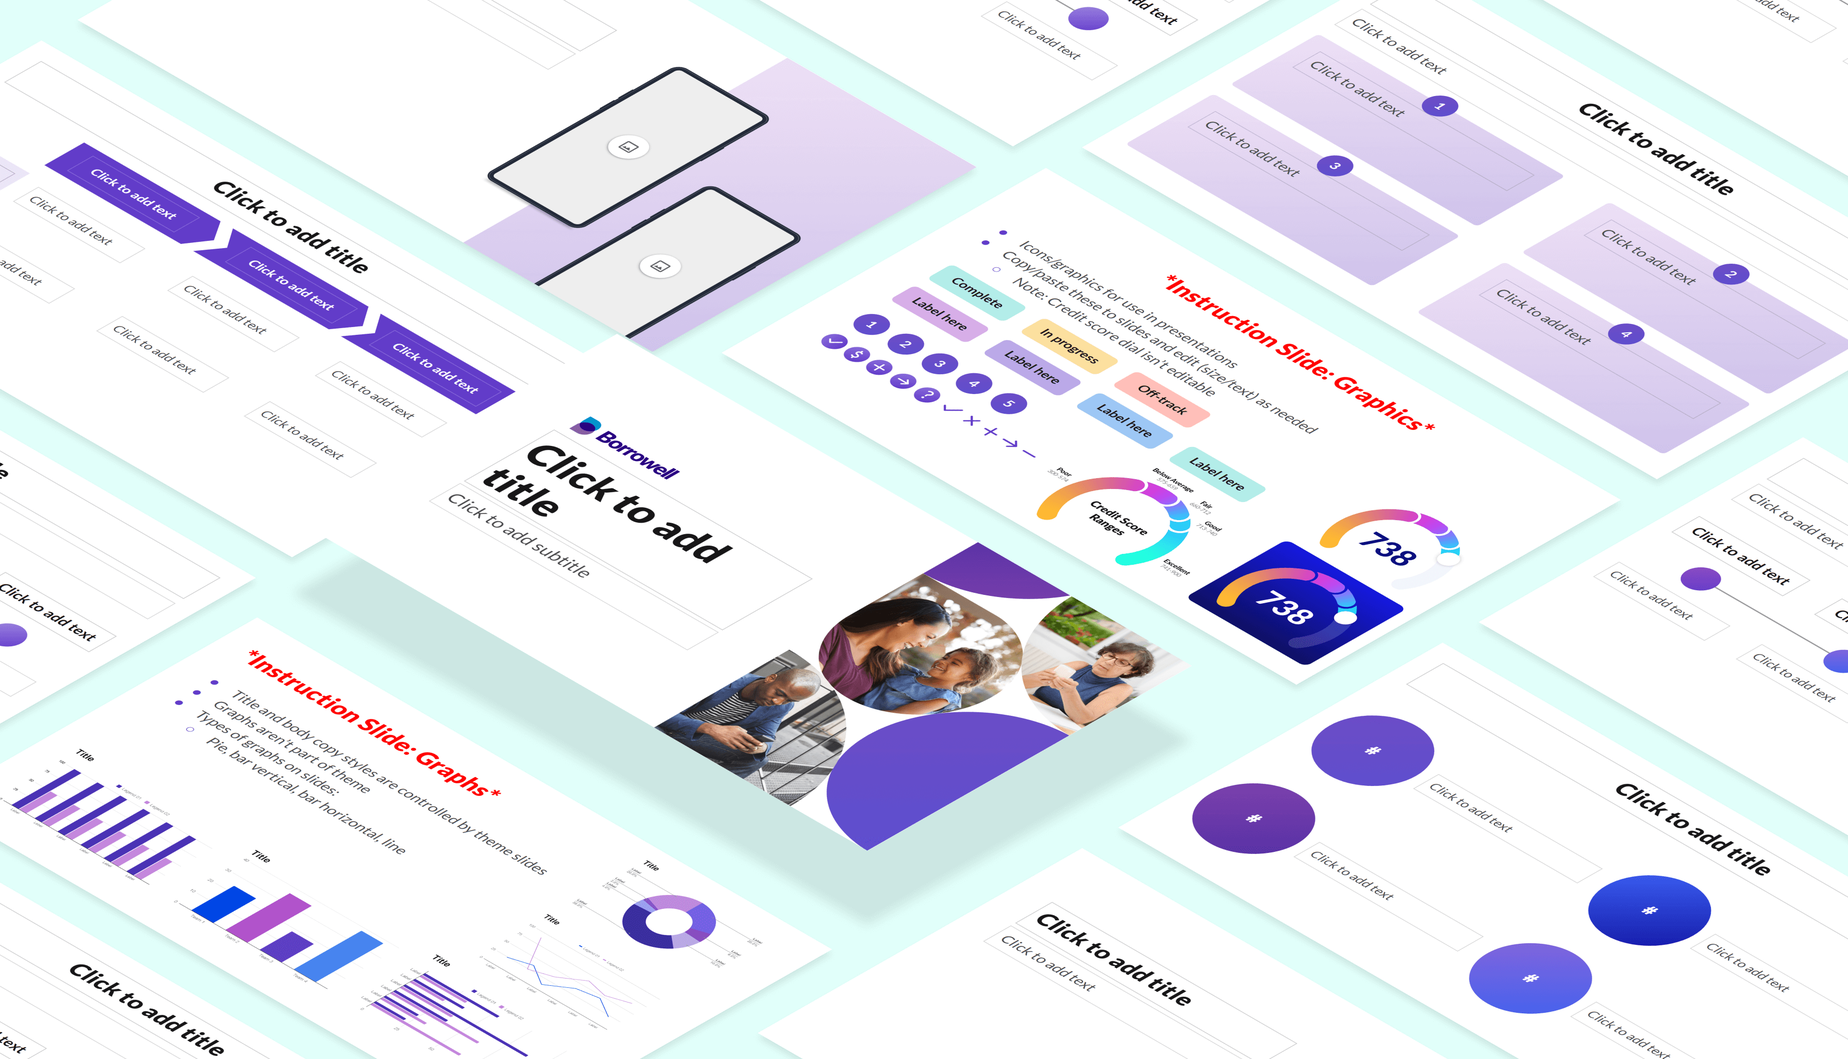
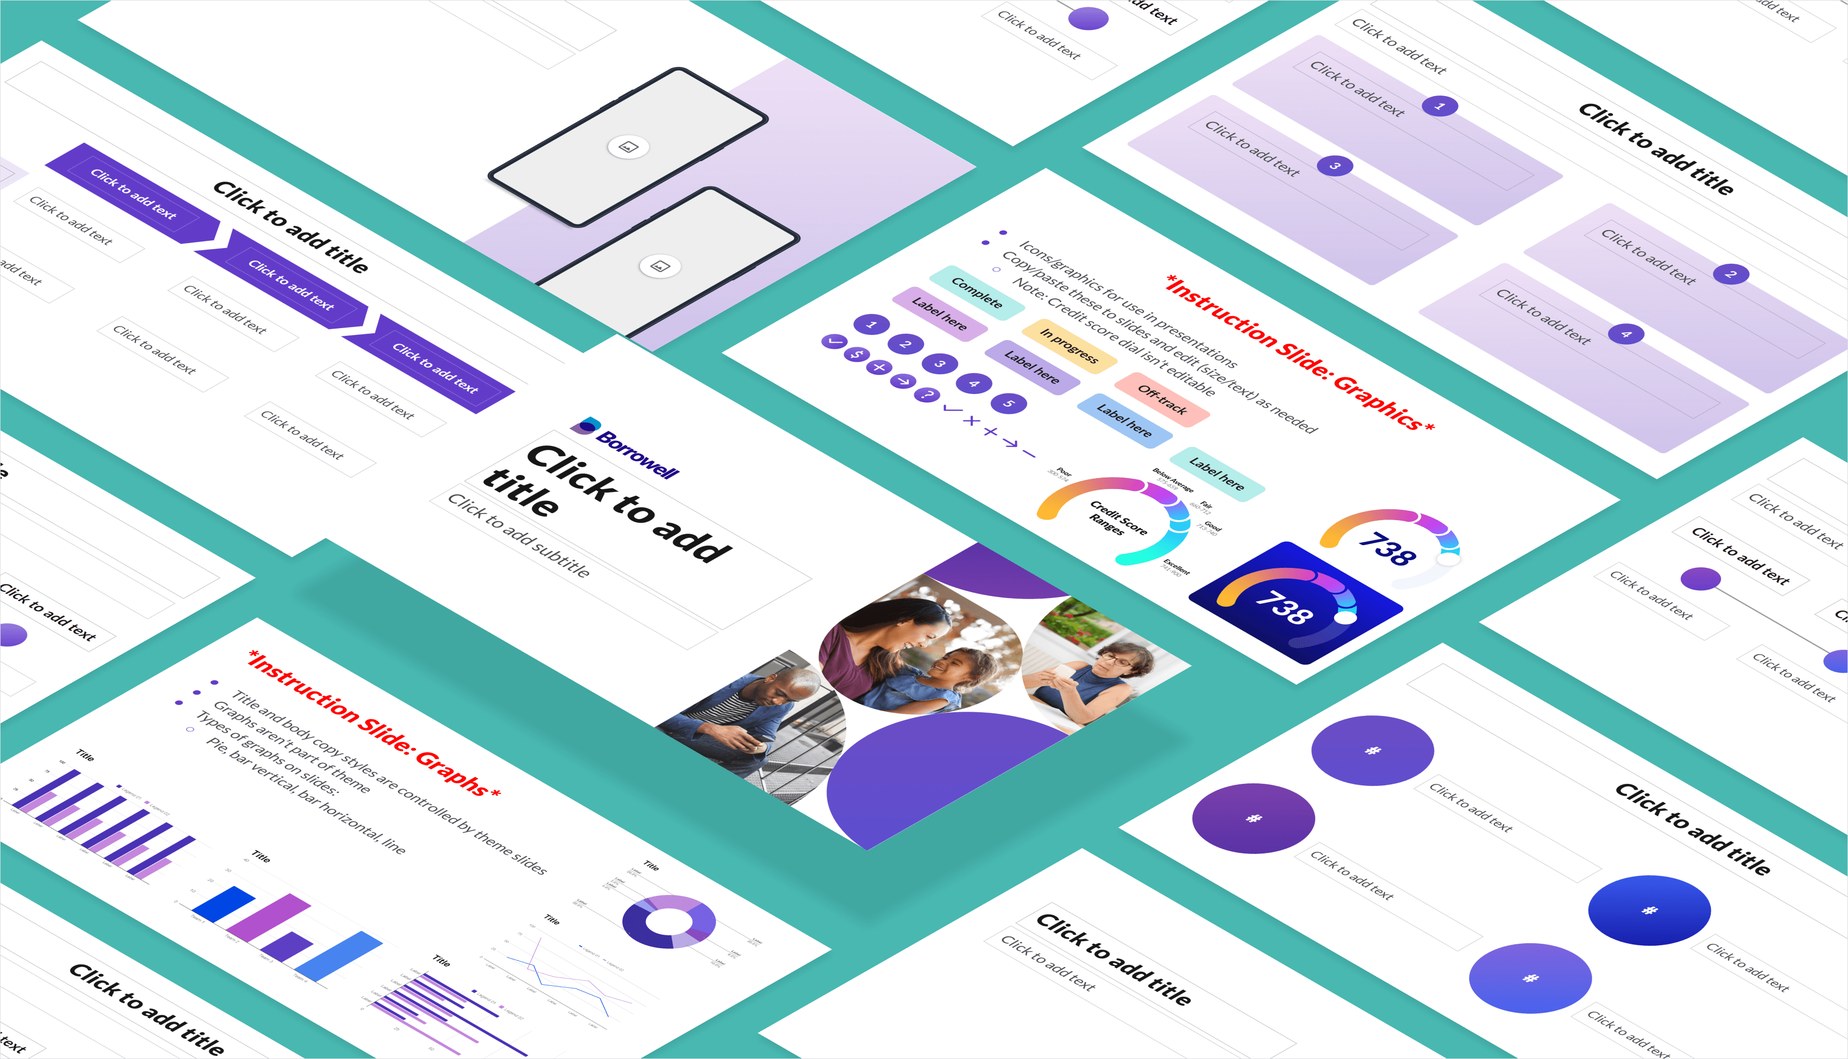
Updates based on Oz's feedback

Changed region(s): [[0.0, 0.0, 1.0, 1.0], [0.7795, 0.0, 1.0, 0.3088], [0.0, 0.8029, 0.2183, 1.0]]

diff --git a/portfolio-pages/borrowell-branding.html b/portfolio-pages/borrowell-branding.html
@@ -256,12 +256,6 @@
                         </div>
                     </div>
 
-
-                        <!-- <p>With the introduction of two new products in 2022, there was an opportunity to evaluate how colour could relate to each one. These financial products aren’t tangible items so we decided to use colour to help the separation. I chose a main colour for each and then worked in secondary colours that contrast well against these.</p> -->
-                        
-                        <!-- <img class="img-fluid" src="../img/borrowell-branding/characters-2019@2x.png" alt="Character ilustrations, including larger limbs and purple skin tones."> -->
-                        <!-- <p class="image-caption">Image representing product line colours with labels.</p> -->
-
                         <div class="section">
                             <p>I switched ad templates from Canva to Figma in 2023, as auto layouts in Figma allowed for responsive templates that adjust to frame size changes. I also created reusable components for easy swapping of images, enabling quick and easy testing of multiple ad variations.</p>
 
@@ -279,9 +273,6 @@
                                 <p>Make the shift from saturated background to lighter ones across all channels for a cohesive brand experience.
                                 </p>
                             </li>
-                            <!-- <li>
-                                <p>Implement a sans serif typeface that’s easier to read on all platforms.</p>
-                            </li> -->
                             <li>
                                 <p>Evolve the overall messaging of Borrowell from focusing solely on “free credit score” to “building credit and achieving financial goals” so it’s more encompassing of the new credit building products that were launched in 2022.
                                 </p>
@@ -341,9 +332,9 @@
                     <li><a href="../contact.html">Contact</a></li>
                 </ul>
                 <ul class="social-media">
-                    <li><a href="https://www.linkedin.com/in/amandawondergem" target="_blank" title="LinkedIn"><img src="../img/linkedin-black@2x.png" alt="linkedin" width="28" height="28"></a></li>
-                    <li><a  href="https://www.instagram.com/amanda_wondergem/" target="_blank" title="Instagram"><img src="../img/instagram-black@2x.png" alt="instagram" width="28" height="28"></a></li>
-                    <li><a href="https://vimeo.com/amandawondergem" target="_blank" title="Vimeo"><img src="../img/vimeo-black@2x.png" alt="vimeo" width="28" height="28"></a></li>
+                    <li><a href="https://www.linkedin.com/in/amandawondergem" target="_blank" title="LinkedIn"><img src="../img/linkedin-white@2x.png" alt="linkedin" width="28" height="28"></a></li>
+                    <li><a  href="https://www.instagram.com/amanda_wondergem/" target="_blank" title="Instagram"><img src="../img/instagram-white@2x.png" alt="instagram" width="28" height="28"></a></li>
+                    <li><a href="https://vimeo.com/amandawondergem" target="_blank" title="Vimeo"><img src="../img/vimeo-white@2x.png" alt="vimeo" width="28" height="28"></a></li>
                 </ul>
                 <p class="copyright">&copy;&nbsp;2023 Amanda Wondergem</p>
             </div>

diff --git a/portfolio-pages/borrowell-app-store-listing.html b/portfolio-pages/borrowell-app-store-listing.html
@@ -133,7 +133,7 @@
                         <div class="row align-center">
                             <div class="col-xs-12 col-md-6">
                                 <div class="video-center">
-                                    <video width="50%" height="auto" controls>
+                                    <video poster="../img/borrowell-app-store-listing/video-poster-2019.png" width="50%" height="auto" controls muted>
                                         <source src="../videos/borrowell-app-store-video-2019.mp4" type=video/mp4>
                                     </video>
                                     <p class="image-caption">App listing video from 2019.</p>
@@ -156,7 +156,7 @@
                         <div class="row align-center">
                             <div class="col-xs-12 col-md-6">
                                 <div class="video-center">
-                                    <video width="50%" height="auto" controls>
+                                    <video poster="../img/borrowell-app-store-listing/video-poster-2021.png" width="50%" height="auto" controls muted>
                                         <source src="../videos/borrowell-app-play-store-video-2021.mp4" type=video/mp4>
                                     </video>
                                     <p class="image-caption">App listing video from 2021.</p>
@@ -240,9 +240,9 @@
                     <li><a href="../contact.html">Contact</a></li>
                 </ul>
                 <ul class="social-media">
-                    <li><a href="https://www.linkedin.com/in/amandawondergem" target="_blank" title="LinkedIn"><img src="../img/linkedin-black@2x.png" alt="linkedin" width="28" height="28"></a></li>
-                    <li><a  href="https://www.instagram.com/amanda_wondergem/" target="_blank" title="Instagram"><img src="../img/instagram-black@2x.png" alt="instagram" width="28" height="28"></a></li>
-                    <li><a href="https://vimeo.com/amandawondergem" target="_blank" title="Vimeo"><img src="../img/vimeo-black@2x.png" alt="vimeo" width="28" height="28"></a></li>
+                    <li><a href="https://www.linkedin.com/in/amandawondergem" target="_blank" title="LinkedIn"><img src="../img/linkedin-white@2x.png" alt="linkedin" width="28" height="28"></a></li>
+                    <li><a  href="https://www.instagram.com/amanda_wondergem/" target="_blank" title="Instagram"><img src="../img/instagram-white@2x.png" alt="instagram" width="28" height="28"></a></li>
+                    <li><a href="https://vimeo.com/amandawondergem" target="_blank" title="Vimeo"><img src="../img/vimeo-white@2x.png" alt="vimeo" width="28" height="28"></a></li>
                 </ul>
                 <p class="copyright">&copy;&nbsp;2023 Amanda Wondergem</p>
             </div>

diff --git a/tidbits.html b/tidbits.html
@@ -103,6 +103,7 @@
                         <img src="img/tidbits/besties.gif" alt="Animation of two sockies high fiving">
                         <img src="img/tidbits/borrowell-characters.png" alt="Illustration of four characters">
                         <img src="img/tidbits/D.png" alt="Illustrations within the letter D">
+                        <img src="img/tidbits/borrowell-mug-animation.gif" alt="Animation of a mug with hot chocolate and marshmallows">
                         <img src="img/tidbits/water-scene.gif" alt="Animation inspired by water">
                         <img src="img/tidbits/J.png" alt="Illustrations around the letter J">
                         <img src="img/tidbits/borrowell-rent-advantage-02.png" alt="Illustration a phone in front of buildings">
@@ -129,9 +130,9 @@
                     <li><a href="../contact.html">Contact</a></li>
                 </ul>
                 <ul class="social-media">
-                    <li><a href="https://www.linkedin.com/in/amandawondergem" target="_blank" title="LinkedIn"><img src="../img/linkedin-black@2x.png" alt="linkedin" width="28" height="28"></a></li>
-                    <li><a  href="https://www.instagram.com/amanda_wondergem/" target="_blank" title="Instagram"><img src="../img/instagram-black@2x.png" alt="instagram" width="28" height="28"></a></li>
-                    <li><a href="https://vimeo.com/amandawondergem" target="_blank" title="Vimeo"><img src="../img/vimeo-black@2x.png" alt="vimeo" width="28" height="28"></a></li>
+                    <li><a href="https://www.linkedin.com/in/amandawondergem" target="_blank" title="LinkedIn"><img src="img/linkedin-white@2x.png" alt="linkedin" width="28" height="28"></a></li>
+                    <li><a  href="https://www.instagram.com/amanda_wondergem/" target="_blank" title="Instagram"><img src="img/instagram-white@2x.png" alt="instagram" width="28" height="28"></a></li>
+                    <li><a href="https://vimeo.com/amandawondergem" target="_blank" title="Vimeo"><img src="img/vimeo-white@2x.png" alt="vimeo" width="28" height="28"></a></li>
                 </ul>
                 <p class="copyright">&copy;&nbsp;2023 Amanda Wondergem</p>
             </div>

diff --git a/portfolio-pages/borrowell-credit-builder-explainer-video.html b/portfolio-pages/borrowell-credit-builder-explainer-video.html
@@ -331,11 +331,11 @@
                     <li><a href="../contact.html">Contact</a></li>
                 </ul>
                 <ul class="social-media">
-                    <li><a href="https://www.linkedin.com/in/amandawondergem" target="_blank" title="LinkedIn"><img src="../img/linkedin-black@2x.png" alt="linkedin" width="28" height="28"></a></li>
-                    <li><a  href="https://www.instagram.com/amanda_wondergem/" target="_blank" title="Instagram"><img src="../img/instagram-black@2x.png" alt="instagram" width="28" height="28"></a></li>
-                    <li><a href="https://vimeo.com/amandawondergem" target="_blank" title="Vimeo"><img src="../img/vimeo-black@2x.png" alt="vimeo" width="28" height="28"></a></li>
+                    <li><a href="https://www.linkedin.com/in/amandawondergem" target="_blank" title="LinkedIn"><img src="../img/linkedin-white@2x.png" alt="linkedin" width="28" height="28"></a></li>
+                    <li><a  href="https://www.instagram.com/amanda_wondergem/" target="_blank" title="Instagram"><img src="../img/instagram-white@2x.png" alt="instagram" width="28" height="28"></a></li>
+                    <li><a href="https://vimeo.com/amandawondergem" target="_blank" title="Vimeo"><img src="../img/vimeo-white@2x.png" alt="vimeo" width="28" height="28"></a></li>
                 </ul>
-                <p class="copyright">&copy;&nbsp;2023 Amanda Wondergem</p>
+                </ul>="copyright">&copy;&nbsp;2023 Amanda Wondergem</p>
             </div>
         </div>
     </div><!--END FOOTER-->

diff --git a/portfolio-pages/borrowell-app-promo-video.html b/portfolio-pages/borrowell-app-promo-video.html
@@ -141,9 +141,9 @@
                     <li><a href="../contact.html">Contact</a></li>
                 </ul>
                 <ul class="social-media">
-                    <li><a href="https://www.linkedin.com/in/amandawondergem" target="_blank" title="LinkedIn"><img src="../img/linkedin-black@2x.png" alt="linkedin" width="28" height="28"></a></li>
-                    <li><a  href="https://www.instagram.com/amanda_wondergem/" target="_blank" title="Instagram"><img src="../img/instagram-black@2x.png" alt="instagram" width="28" height="28"></a></li>
-                    <li><a href="https://vimeo.com/amandawondergem" target="_blank" title="Vimeo"><img src="../img/vimeo-black@2x.png" alt="vimeo" width="28" height="28"></a></li>
+                    <li><a href="https://www.linkedin.com/in/amandawondergem" target="_blank" title="LinkedIn"><img src="../img/linkedin-white@2x.png" alt="linkedin" width="28" height="28"></a></li>
+                    <li><a  href="https://www.instagram.com/amanda_wondergem/" target="_blank" title="Instagram"><img src="../img/instagram-white@2x.png" alt="instagram" width="28" height="28"></a></li>
+                    <li><a href="https://vimeo.com/amandawondergem" target="_blank" title="Vimeo"><img src="../img/vimeo-white@2x.png" alt="vimeo" width="28" height="28"></a></li>
                 </ul>
                 <p class="copyright">&copy;&nbsp;2023 Amanda Wondergem</p>
             </div>

diff --git a/portfolio-pages/borrowell-credit-builder-marketing-assets.html b/portfolio-pages/borrowell-credit-builder-marketing-assets.html
@@ -294,9 +294,9 @@
                     <li><a href="../contact.html">Contact</a></li>
                 </ul>
                 <ul class="social-media">
-                    <li><a href="https://www.linkedin.com/in/amandawondergem" target="_blank" title="LinkedIn"><img src="../img/linkedin-black@2x.png" alt="linkedin" width="28" height="28"></a></li>
-                    <li><a  href="https://www.instagram.com/amanda_wondergem/" target="_blank" title="Instagram"><img src="../img/instagram-black@2x.png" alt="instagram" width="28" height="28"></a></li>
-                    <li><a href="https://vimeo.com/amandawondergem" target="_blank" title="Vimeo"><img src="../img/vimeo-black@2x.png" alt="vimeo" width="28" height="28"></a></li>
+                    <li><a href="https://www.linkedin.com/in/amandawondergem" target="_blank" title="LinkedIn"><img src="../img/linkedin-white@2x.png" alt="linkedin" width="28" height="28"></a></li>
+                    <li><a  href="https://www.instagram.com/amanda_wondergem/" target="_blank" title="Instagram"><img src="../img/instagram-white@2x.png" alt="instagram" width="28" height="28"></a></li>
+                    <li><a href="https://vimeo.com/amandawondergem" target="_blank" title="Vimeo"><img src="../img/vimeo-white@2x.png" alt="vimeo" width="28" height="28"></a></li>
                 </ul>
                 <p class="copyright">&copy;&nbsp;2023 Amanda Wondergem</p>
             </div>

diff --git a/portfolio-pages/demo-reel.html b/portfolio-pages/demo-reel.html
@@ -138,9 +138,9 @@
                     <li><a href="../contact.html">Contact</a></li>
                 </ul>
                 <ul class="social-media">
-                    <li><a href="https://www.linkedin.com/in/amandawondergem" target="_blank" title="LinkedIn"><img src="../img/linkedin-black@2x.png" alt="linkedin" width="28" height="28"></a></li>
-                    <li><a  href="https://www.instagram.com/amanda_wondergem/" target="_blank" title="Instagram"><img src="../img/instagram-black@2x.png" alt="instagram" width="28" height="28"></a></li>
-                    <li><a href="https://vimeo.com/amandawondergem" target="_blank" title="Vimeo"><img src="../img/vimeo-black@2x.png" alt="vimeo" width="28" height="28"></a></li>
+                    <li><a href="https://www.linkedin.com/in/amandawondergem" target="_blank" title="LinkedIn"><img src="../img/linkedin-white@2x.png" alt="linkedin" width="28" height="28"></a></li>
+                    <li><a  href="https://www.instagram.com/amanda_wondergem/" target="_blank" title="Instagram"><img src="../img/instagram-white@2x.png" alt="instagram" width="28" height="28"></a></li>
+                    <li><a href="https://vimeo.com/amandawondergem" target="_blank" title="Vimeo"><img src="../img/vimeo-white@2x.png" alt="vimeo" width="28" height="28"></a></li>
                 </ul>
                 <p class="copyright">&copy;&nbsp;2023 Amanda Wondergem</p>
             </div>

diff --git a/portfolio-pages/wsps-safety-group.html b/portfolio-pages/wsps-safety-group.html
@@ -130,9 +130,9 @@
                     <li><a href="../contact.html">Contact</a></li>
                 </ul>
                 <ul class="social-media">
-                    <li><a href="https://www.linkedin.com/in/amandawondergem" target="_blank" title="LinkedIn"><img src="../img/linkedin-black@2x.png" alt="linkedin" width="28" height="28"></a></li>
-                    <li><a href="https://www.instagram.com/amanda_wondergem/" target="_blank" title="Instagram"><img src="../img/instagram-black@2x.png" alt="instagram" width="28" height="28"></a></li>
-                    <li><a href="https://vimeo.com/amandawondergem" target="_blank" title="Vimeo"><img src="../img/vimeo-black@2x.png" alt="vimeo" width="28" height="28"></a></li>
+                    <li><a href="https://www.linkedin.com/in/amandawondergem" target="_blank" title="LinkedIn"><img src="../img/linkedin-white@2x.png" alt="linkedin" width="28" height="28"></a></li>
+                    <li><a  href="https://www.instagram.com/amanda_wondergem/" target="_blank" title="Instagram"><img src="../img/instagram-white@2x.png" alt="instagram" width="28" height="28"></a></li>
+                    <li><a href="https://vimeo.com/amandawondergem" target="_blank" title="Vimeo"><img src="../img/vimeo-white@2x.png" alt="vimeo" width="28" height="28"></a></li>
                 </ul>
                 <p class="copyright">&copy;&nbsp;2023 Amanda Wondergem</p>
             </div>

diff --git a/about.html b/about.html
@@ -121,9 +121,9 @@
                     <li><a href="contact.html">Contact</a></li>
                 </ul>
                 <ul class="social-media">
-                    <li><a href="https://www.linkedin.com/in/amandawondergem" target="_blank" title="LinkedIn"><img src="img/linkedin-black@2x.png" alt="linkedin" width="28" height="28"></a></li>
-                    <li><a  href="https://www.instagram.com/amanda_wondergem/" target="_blank" title="Instagram"><img src="img/instagram-black@2x.png" alt="instagram" width="28" height="28"></a></li>
-                    <li><a href="https://vimeo.com/amandawondergem" target="_blank" title="Vimeo"><img src="img/vimeo-black@2x.png" alt="vimeo" width="28" height="28"></a></li>
+                    <li><a href="https://www.linkedin.com/in/amandawondergem" target="_blank" title="LinkedIn"><img src="img/linkedin-white@2x.png" alt="linkedin" width="28" height="28"></a></li>
+                    <li><a  href="https://www.instagram.com/amanda_wondergem/" target="_blank" title="Instagram"><img src="img/instagram-white@2x.png" alt="instagram" width="28" height="28"></a></li>
+                    <li><a href="https://vimeo.com/amandawondergem" target="_blank" title="Vimeo"><img src="img/vimeo-white@2x.png" alt="vimeo" width="28" height="28"></a></li>
                 </ul>
                 <p class="copyright">&copy;&nbsp;2023 Amanda Wondergem</p>
             </div>

diff --git a/contact.html b/contact.html
@@ -118,9 +118,9 @@
                     <li><a href="contact.html">Contact</a></li>
                 </ul>
                 <ul class="social-media">
-                    <li><a href="https://www.linkedin.com/in/amandawondergem" target="_blank" title="LinkedIn"><img src="img/linkedin-black@2x.png" alt="linkedin" width="28" height="28"></a></li>
-                    <li><a  href="https://www.instagram.com/amanda_wondergem/" target="_blank" title="Instagram"><img src="img/instagram-black@2x.png" alt="instagram" width="28" height="28"></a></li>
-                    <li><a href="https://vimeo.com/amandawondergem" target="_blank" title="Vimeo"><img src="img/vimeo-black@2x.png" alt="vimeo" width="28" height="28"></a></li>
+                    <li><a href="https://www.linkedin.com/in/amandawondergem" target="_blank" title="LinkedIn"><img src="img/linkedin-white@2x.png" alt="linkedin" width="28" height="28"></a></li>
+                    <li><a  href="https://www.instagram.com/amanda_wondergem/" target="_blank" title="Instagram"><img src="img/instagram-white@2x.png" alt="instagram" width="28" height="28"></a></li>
+                    <li><a href="https://vimeo.com/amandawondergem" target="_blank" title="Vimeo"><img src="img/vimeo-white@2x.png" alt="vimeo" width="28" height="28"></a></li>
                 </ul>
                 <p class="copyright">&copy;&nbsp;2023 Amanda Wondergem</p>
             </div>

diff --git a/index.html b/index.html
@@ -165,9 +165,9 @@
                     <li><a href="contact.html">Contact</a></li>
                 </ul>
                 <ul class="social-media">
-                    <li><a href="https://www.linkedin.com/in/amandawondergem" target="_blank" title="LinkedIn"><img src="img/linkedin-black@2x.png" alt="linkedin" width="28" height="28"></a></li>
-                    <li><a  href="https://www.instagram.com/amanda_wondergem/" target="_blank" title="Instagram"><img src="img/instagram-black@2x.png" alt="instagram" width="28" height="28"></a></li>
-                    <li><a href="https://vimeo.com/amandawondergem" target="_blank" title="Vimeo"><img src="img/vimeo-black@2x.png" alt="vimeo" width="28" height="28"></a></li>
+                    <li><a href="https://www.linkedin.com/in/amandawondergem" target="_blank" title="LinkedIn"><img src="img/linkedin-white@2x.png" alt="linkedin" width="28" height="28"></a></li>
+                    <li><a  href="https://www.instagram.com/amanda_wondergem/" target="_blank" title="Instagram"><img src="img/instagram-white@2x.png" alt="instagram" width="28" height="28"></a></li>
+                    <li><a href="https://vimeo.com/amandawondergem" target="_blank" title="Vimeo"><img src="img/vimeo-white@2x.png" alt="vimeo" width="28" height="28"></a></li>
                 </ul>
                 <p class="copyright">&copy;&nbsp;2023 Amanda Wondergem</p>
             </div>

diff --git a/css/styles.css b/css/styles.css
@@ -90,6 +90,7 @@ body {
   position: relative;
   margin: 0;
   min-height: 100%;
+  background-color: #1c1d21;
 }
 
 .page-wrapper {
@@ -453,7 +454,7 @@ ul.bullets ul li p {
 
 a {
   text-decoration: underline;
-  color: #C24E0A;
+  color: #C74F0A;
   cursor: pointer;
 }
 
@@ -471,8 +472,8 @@ a:hover {
 a.primary-button, button.primary-button {
   display: inline-block;
   padding: 15px 25px;
-  color: #1c1d21;
-  background-color: #f26414;
+  color: #ffffff;
+  background-color: #C74F0A;
   text-decoration: none;
   cursor: pointer;
   font-size: 16px;
@@ -483,12 +484,8 @@ a.primary-button, button.primary-button {
 }
 
 a.primary-button:hover, button.primary-button:hover {
-  background-color: #00AAB2;
-  /* Firefox */
-  /* WebKit */
+  background-color: #00838A;
   -webkit-transition: all 0.3s ease-in-out;
-  /* Opera */
-  /* Standard */
   transition: all 0.3s ease-in-out;
 }
 
@@ -904,10 +901,9 @@ form.login label {
 /*Google font*/
 .footer {
   padding: 30px 15px 30px 15px;
-  background-color: #ffffff;
+  background-color: #1c1d21;
   background-repeat: repeat;
   text-align: center;
-  border-top: 2px solid #F2F2F2;
 }
 
 @media (min-width: 768px) {
@@ -944,7 +940,7 @@ form.login label {
 }
 
 .footer ul.nav li a {
-  color: #414042;
+  color: #ffffff;
   font-size: 14px;
   text-transform: uppercase;
   font-weight: bold;
